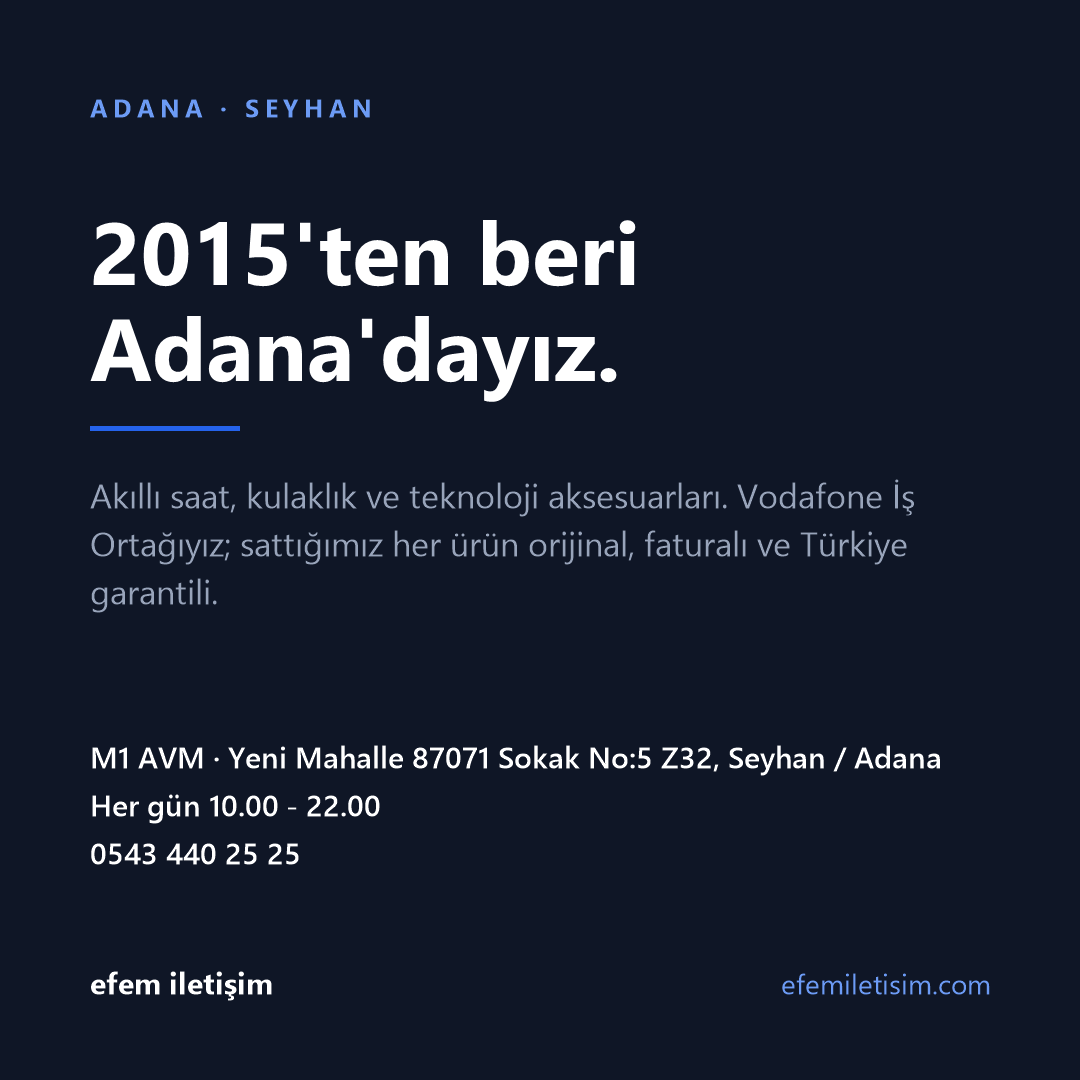
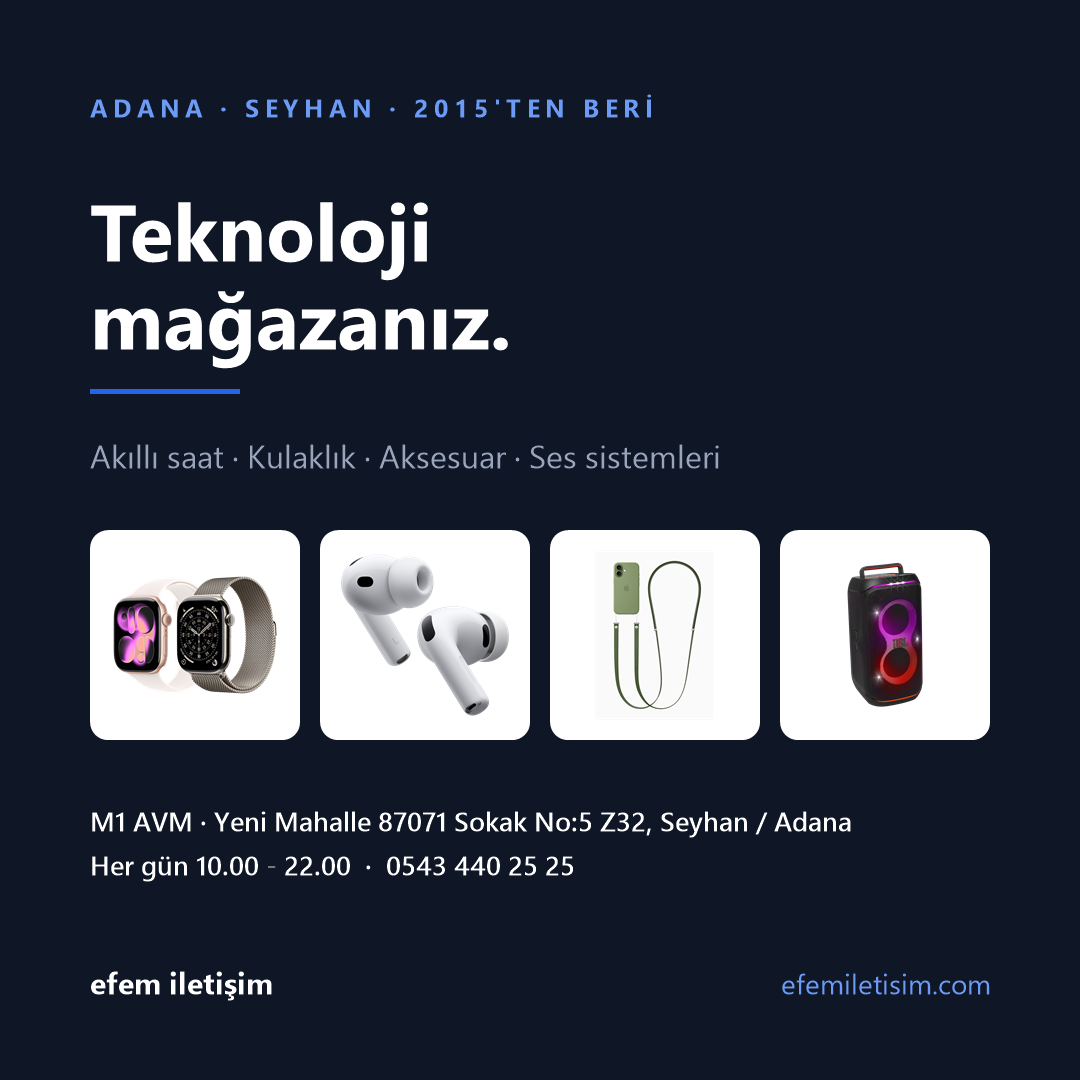
Otomatik commit: 10 dosya güncellendi (Claude Code)
Değişen dosyalar:
 - Değiştirildi: docs/INSTAGRAM-PLANI.md
 - Değiştirildi: docs/instagram/GONDERILER.md
 - Değiştirildi: docs/instagram/build.ps1
 - Eklendi: docs/instagram/gorseller/01-2-kunye.png
 - Değiştirildi: docs/instagram/gorseller/01-tanitim.png
 - Eklendi: docs/instagram/gorseller/04-2-detay.png
 - Yeniden adlandırıldı: docs/instagram/gorseller/04-3-anc.png
 - Eklendi: docs/instagram/gorseller/06-2-detay.png
 - Yeniden adlandırıldı: docs/instagram/gorseller/06-3-dinle.png
 - Değiştirildi: docs/instagram/spec.json
Özet: 10 files changed, 102 insertions(+), 36 deletions(-)

Bu commit, Claude Code oturumundaki son promptun ardından otomatik olarak
oluşturulmuş ve GitHub'a push edilmiştir. Mesaj, değişen dosyaların git
durumundan (git status / git diff --stat) otomatik olarak üretilmiştir.

Changed region(s): [[0.0611, 0.3972, 0.9167, 0.825], [0.0611, 0.1833, 0.6111, 0.3667], [0.3667, 0.0917, 0.6111, 0.1222]]

diff --git a/docs/INSTAGRAM-PLANI.md b/docs/INSTAGRAM-PLANI.md
@@ -67,28 +67,31 @@ Mağaza · Akıllı Saat · Kulaklık · Kargo · İade & Garanti · Yorumlar
 
 ## İlk 9 gönderi (paylaşım sırası, 2 haftaya yayılır — günde birden fazla yükleme yok)
 
-1. Tanıtım — "Biz kimiz" (tek görsel, mağaza vitrini)
+1. Tanıtım — "Biz kimiz" (karusel 2)
 2. Apple Watch Series 11 42mm (karusel 3)
 3. Watch SE 3 vs Series 11 karşılaştırma (karusel 4)
-4. AirPods Pro 3 (reels 15-20 sn, altyazılı)
-5. "Neden bizden?" 5 madde (karusel 5)
-6. JBL PartyBox Club 120 kutu açılışı (reels 20-30 sn)
+4. AirPods Pro 3 (karusel 3)
+5. "Neden bizden?" 5 madde (karusel 6)
+6. JBL PartyBox Club 120 (karusel 3)
 7. Vodafone İş Ortağı + mağaza konumu (konum etiketli)
-8. Huawei Watch GT 6 kampanya (bitiş tarihi görselde)
-9. Sık sorulanlar (karusel 4) — **profilde sabitle**
+8. Huawei Watch GT 6 kampanya (karusel 2)
+9. Sık sorulanlar (karusel 5) — **profilde sabitle**
 
-**Görseller hazır:** `docs/instagram/gorseller/` altında 26 kare (1080×1080 PNG).
+**Görseller hazır:** `docs/instagram/gorseller/` altında 29 kare (1080×1080 PNG).
 Metin + hashtag + alternatif metin: [instagram/GONDERILER.md](instagram/GONDERILER.md).
 Yeniden üretmek için `powershell -ExecutionPolicy Bypass -File docs/instagram/build.ps1`
 (metinler `docs/instagram/spec.json` içinde).
 
-Fotoğraf/video isteyen üç gönderi (01 vitrin, 04 ve 06 reels) için şimdilik tasarım kartı
-konuldu; çekim listesi GONDERILER.md sonunda.
+Hiçbir gönderi fotoğraf ya da video çekimi gerektirmiyor: kapaklar katalog ürün
+görsellerinden kuruldu, reels planlanan iki gönderi karusele çevrildi.
 
 ## Ritim
 
-Pazartesi ürün · Çarşamba reels · Cuma kampanya/yorum · her gün 1-2 hikaye ·
-ayda bir öne çıkanları güncelle.
+Pazartesi ürün karuseli · Çarşamba karşılaştırma veya "nasıl seçilir" karuseli ·
+Cuma kampanya/yorum · her gün 1-2 hikaye · ayda bir öne çıkanları güncelle.
+
+Video çekilemediği sürece reels yok; karusel tek başına yeterli. Erişim düşerse
+telefonla çekilmiş 10 saniyelik tek bir ürün videosu bile açığı kapatır.
 
 ## Kaçınılacaklar
 
